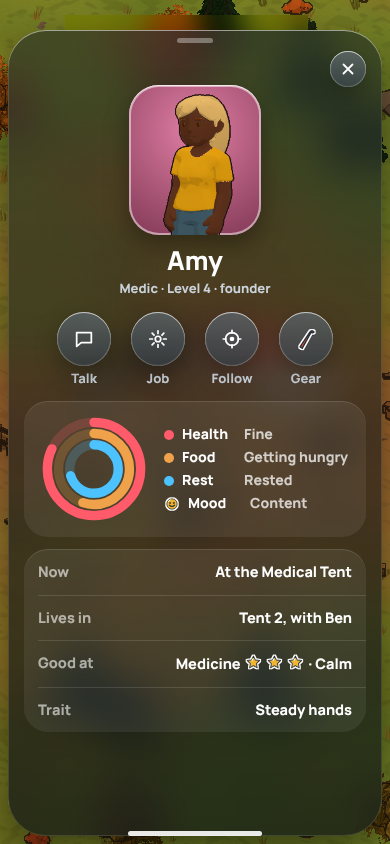
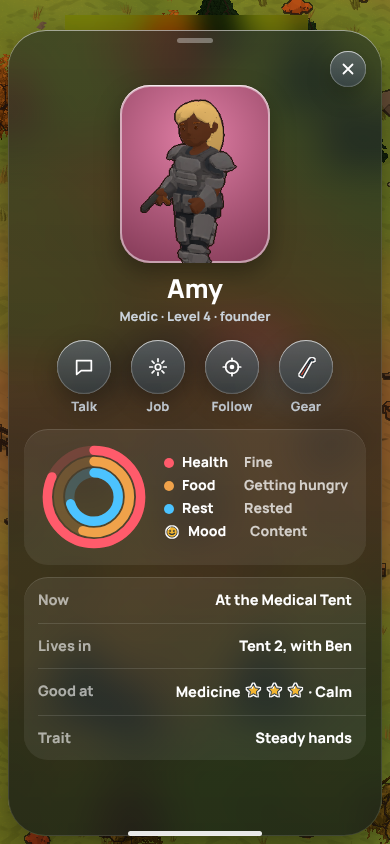
UI: W249 answers (tab bar A, pictures zoomed out, no shake); new picture sheet
Claude-Session: https://claude.ai/code/session_017WFo2g4zbX7WQERKjB1fXN

diff --git a/tools/qa/phone_b2_mock.js b/tools/qa/phone_b2_mock.js
@@ -15,8 +15,10 @@ const { MOCK: VALLEY } = require('./valley_map_mock');
     const base = ZH.S.sv, by = {}; base.forEach((s) => { by[s.name] = s; });
     const extra = [['Rosa', 'Builder', 21, 'f'], ['Theo', 'Fighter', 22, 'm'], ['Ada', 'Mechanic', 23, 'f']];
     for (const [n, job, id, sex] of extra) { const c = { ...JSON.parse(JSON.stringify(base[0])), id, name: n, job }; delete c.look; ZHChars.look(c).sex = sex; by[n] = c; }   /* three more people for the list: their own looks, not copies */
-    by.Marcus = { ...by.Marcus, eq: { ...by.Marcus.eq, weapon: 'bat' } }; by.Theo.eq = { weapon: 'machete', armor: null, head: null, acc: null }; by.Rosa.eq = { weapon: null, armor: null, head: 'hardhat', acc: null };
-    const o = {}; for (const n of Object.keys(by)) o[n] = { bust: ZH3D.portrait(by[n]), half: ZH3D.snap(by[n], { key: 'half', W: 192, H: 240, half: .4, dy: .78 }), fem: ZH3D.isFem(by[n]) };
+    const gear = { Marcus: ['bat', 'kevlar', null], Amy: ['pistol', 'riot', null], Lena: ['bow', null, null], Ben: ['axe', null, 'hardhat'], Rosa: ['crowbar', null, 'hardhat'], Theo: ['machete', 'military', null], Ada: ['shotgun', 'kevlar', null] };
+    for (const n of Object.keys(by)) { const [weapon, armor, head] = gear[n]; by[n] = { ...by[n], eq: { weapon, armor, head, acc: null } }; }
+    /* owner, 23 Nov 10:26: "It should zoom out just be a bit more so you can see the weapon and armor": round spots from the hips up, the card from the knees up */
+    const o = {}; for (const n of Object.keys(by)) o[n] = { bust: ZH3D.snap(by[n], { key: 'hipsup', W: 224, H: 224, half: .43, dy: .77 }), half: ZH3D.snap(by[n], { key: 'kneesup', W: 208, H: 256, half: .54, dy: .67 }), fem: ZH3D.isFem(by[n]) };
     return o; });
   console.log('faces', Object.entries(faces).map(([n, f]) => n + (f.fem ? ' f' : ' m') + (f.bust ? '' : ' NO BUST') + (f.half ? '' : ' NO HALF')).join(', '));
   const pics = await p.evaluate(async () => { for (let i = 0; i < 8; i++) { const u = ZH.invPic('crowbar', 160); if (u) return { crowbar: u, weapon: [], armor: [] }; await new Promise((r) => setTimeout(r, 200)); } return { crowbar: '', weapon: [], armor: [] }; });
@@ -24,8 +26,8 @@ const { MOCK: VALLEY } = require('./valley_map_mock');
   const { mapHtml, mapCss } = await p.evaluate(() => ({ mapHtml: document.querySelector('.vmMap').innerHTML, mapCss: document.getElementById('vmStyle').textContent }));
   await p.evaluate(() => { document.getElementById('closeInfo') && document.getElementById('closeInfo').click(); });
   const shot = async (file, name, opt) => { await p.evaluate(SCREEN, { name, mapHtml, mapCss, pics, opt }); await p.waitForTimeout(350); await p.screenshot({ path: path.join(out, file) }); console.log('shot', file); };
-  for (const t of ['sticker', 'tint', 'badge']) await shot(`phoneB2_tabs_${t}.png`, 'town', { tabs: t, faces });
-  for (const n of ['people', 'card', 'trip', 'item']) await shot(`phoneB2_${n}.png`, n, { tabs: 'tint', faces });
-  await shot('phoneB2_townrings.png', 'townrings', { tabs: 'tint', faces });
+  for (const t of ['sticker', 'tint', 'badge']) await shot(`phoneB2_tabs_${t}.png`, 'town', { tabs: t, faces });   /* owner, 10:26: "use A" (sticker) */
+  for (const n of ['people', 'card', 'trip', 'item']) await shot(`phoneB2_${n}.png`, n, { tabs: 'sticker', faces });
+  await shot('phoneB2_townrings.png', 'townrings', { tabs: 'sticker', faces });
   await b.close();
 })();

diff --git a/tools/qa/phone_b_mock.js b/tools/qa/phone_b_mock.js
@@ -170,8 +170,8 @@ const SCREEN = function ({ name, mapHtml, mapCss, pics, opt }) {
   .pb .nm { flex: 1; min-width: 0; } .pb .nm b { display: block; font-size: 16px; } .pb .nm small { display: block; color: rgba(255,255,255,.6); font-size: 13px; white-space: nowrap; overflow: hidden; text-overflow: ellipsis; }
   .pb .hp { width: 38px; height: 6px; border-radius: 3px; background: rgba(255,255,255,.14); flex: none; } .pb .hp i { display: block; height: 6px; border-radius: 3px; } .pb .ch { display: flex; opacity: .35; }
   .pb .prow.swiped { transform: translateX(-128px); } .pb .swact { position: absolute; right: -128px; top: 0; bottom: 0; display: flex; } .pb .swact span { width: 64px; display: flex; flex-direction: column; align-items: center; justify-content: center; gap: 2px; font-size: 11px; font-weight: 800; }
-  .pb .av.pic { background: radial-gradient(circle at 50% 35%, color-mix(in srgb, var(--c) 85%, #fff), color-mix(in srgb, var(--c) 70%, #000)); overflow: hidden; box-shadow: inset 0 0 0 1.5px rgba(255,255,255,.55), 0 2px 6px rgba(0,0,0,.3); } .pb .av.pic img { width: 128%; height: 128%; margin-top: 16%; object-fit: cover; }
-  .pb .half { width: 132px; height: 150px; border-radius: 30px; display: flex; align-items: flex-end; justify-content: center; overflow: hidden; background: radial-gradient(circle at 50% 30%, color-mix(in srgb, var(--c) 80%, #fff), color-mix(in srgb, var(--c) 60%, #000)); box-shadow: inset 0 0 0 2px rgba(255,255,255,.5), inset 0 1px 0 rgba(255,255,255,.7), 0 10px 24px rgba(0,0,0,.35); } .pb .half img { height: 100%; }
+  .pb .av.pic { background: radial-gradient(circle at 50% 35%, color-mix(in srgb, var(--c) 85%, #fff), color-mix(in srgb, var(--c) 70%, #000)); overflow: hidden; box-shadow: inset 0 0 0 1.5px rgba(255,255,255,.55), 0 2px 6px rgba(0,0,0,.3); } .pb .av.pic img { width: 100%; height: 100%; object-fit: cover; }
+  .pb .half { width: 150px; height: 178px; border-radius: 30px; display: flex; align-items: flex-end; justify-content: center; overflow: hidden; background: radial-gradient(circle at 50% 30%, color-mix(in srgb, var(--c) 80%, #fff), color-mix(in srgb, var(--c) 60%, #000)); box-shadow: inset 0 0 0 2px rgba(255,255,255,.5), inset 0 1px 0 rgba(255,255,255,.7), 0 10px 24px rgba(0,0,0,.35); } .pb .half img { height: 100%; }
   .pb .tbadge { width: 34px; height: 34px; border-radius: 50%; display: grid; place-items: center; color: #fff; box-shadow: inset 0 1px 0 rgba(255,255,255,.6), inset 0 -2px 3px rgba(0,0,0,.18), 0 2px 5px rgba(0,0,0,.3); }
   .pb .rl.wide b { width: 46px; } .pb .rl.wide p { margin: 8px 0; }
   /* call */

diff --git a/docs/project/05-NOW.md b/docs/project/05-NOW.md
@@ -107,7 +107,7 @@ UI chat:
 - W217. Play 3D.279 (live, version 300): (1) the star beside Renown; (2) the bag on the resource bar shows one number, and a tap opens the supplies list with names and caps and an "Open inventory" button; a dot on the bag when something is low (try a gunner with few rounds). Right? Is the dot's rule right (low ammo for the gunners, no medicine with someone hurt, generators short of fuel)? (That publish also put the Strongholds chat's 3D.277 and 3D.278 live: they were pushed, not yet published.)
 - ~~W245. The valley map, mockups.~~ Five pictures sent 23 Nov (look A paper road map, look B dark glass, two pin cards, day 2). Owner, 23 Nov: **"A is good"**; **"Yes on hide places"** (places nobody has scouted stay hidden until a lead, the radio or a story step reveals them); **no count of the zombies left** in a place ("I don't think we should add how many zombie remain"); **factions get a favour bar**, "with the center as neutral and the bar grow depending on your action", and **as few numbers as possible**; **a background like Google Maps**. Revised mockup: W247.
 - ~~W247. The valley map, revised mockup~~ (look C, from W245's answers). Four pictures sent 23 Nov (`runs/ui_samples/valley_map_C_street_*.png`, `tools/qa/valley_map_mock.js`; nothing built): **a street-map background** like Google Maps (pale land, green parks and forests, blue river and lakes, grey town blocks with streets and building outlines, white roads, Route 9 yellow with its shield, soft hill shading, quiet grey area names, the zone past the cordon hatched red, a compass); **a favour bar under every faction's pin and on its card** (a tick in the middle is neutral; it fills right in blue when they like the Haven, left in coral when they don't; the card says in words where it stands, "Wary of you", and what moves it: trading and helping right, raids left); **no counts**: a sealed place says "Partly cleared" and the risk is said in words ("Bring your best fighters"), leads say "Lead" with no hours, the squad on the road has no timer; the numbers left are level locks ("Level 16"), the herd's "2 days" and the counts on the bottom buttons; **day 2** greys out what is not scouted. Right? If yes, it is built in steps, one per build: (1) the map screen in place of the trip list, with the places, their states and the cards; (2) hiding unscouted places; (3) leads, calls, herds and squads drawn on it; (4) the favour bar (it reads the factions' standing the game already keeps). *(Owner, 23 Nov, 08:35: "i change my mine about the faction favour bar. It didn't look as good as i think. What do you recommend?" The bar is dropped. Two ways sent the same morning (`runs/ui_samples/valley_map_mood_*.png`): **1, a face** on the pin's corner (happy, wary, angry; none for neutral) and on the card a row of five faces, Hostile, Wary, Neutral, Friendly, Allies, with theirs lit; **2, a word** under the pin in the mood's colour (Friends, Neutral, Wary, Rivals) and on the card the word with what changes it. Claude's pick: the word on the map (the faces are too small to read at a glance on a phone) and the row of faces on the card (it shows where they could go). Owner, 08:43: "i like both but the we need to change the icon, please come up with a few sample": so the word on the map and the row of moods on the card, with new icons. Sheet `runs/ui_samples/mood_icon_samples.png` (`tools/qa/mood_icons_mock.html`): **A faces** redrawn bigger in the sticker style, each in the mood's colour; **B hearts** (broken, cracked, empty, full, two together); **C their gate** (spiked shut, barred, shut, opening, wide open with a welcome banner); **D hand signs** (the phone's own emoji: fist, stop, shrug, wave, handshake). Claude's pick: C, the gate (it says what the mood means for you, fits the walled towns, and hearts already mean health). Owner, 08:46: **"A is good but not the allies face. i dont lke the hear eye"**: set A, faces, with a new Allies face. Four sent (`runs/ui_samples/mood_icon_allies_samples.png`): 1 big grin with teeth, 2 wink, 3 warm smile with rosy cheeks, 4 two faces together (blue and teal). Claude's pick: 4 (an ally is the two towns side by side, and it differs most from Friendly). Owner, 08:49: **"W247 use 4"**. **The valley map is settled**: look C (street map), unscouted places hidden, no counts of the dead, few numbers, a faction's mood as a coloured word under its pin and as five faces on its card (Hostile, Wary, Neutral, Friendly, Allies; Allies is two faces together). Built in four steps (above); held for W249 so the screen is built once, in the look chosen there.)*
-- W249. **An iPhone-like look for the whole UI** (owner, 23 Nov, 08:49: "Can we come up with some sample to make the UI like an iphone. it might be interesting. Give me some sample mock up"). Six pictures sent, drawn over the real game scene, each as the town screen and the People menu (`runs/ui_samples/ios_*.png`, `tools/qa/ios_ui_mock.js`; nothing built): **A classic iOS**, light frosted bars, a full-width tab bar with line icons and labels, blue for the selected tab and Build, a sheet with a grabber, a large "People" title, a search field, a segmented control and grouped white lists; **B Liquid Glass** (today's iPhone look), clear glass capsules with bright edges, a floating tab bar with a separate round lime Build button, a floating glass sheet; **C widgets**, a Dynamic Island at the top for the most urgent thing (a herd coming, a squad's timer), Stock and Mission widgets, radio messages as notification banners, a dock of app-style icons, Settings-style lists. No Apple fonts or SF Symbols (their licences forbid it): the game's Manrope type, line icons drawn for the game, the game's sticker icons. Claude's pick: B (closest to today's Glass, the newest iPhone look, keeps lime for go and reads well at night); C covers a third of the town; A's light bars glare at night and need iOS blue instead of lime. Waiting: A, B, C, a mix, or keep today's look. *(Owner, 23 Nov, 09:08: "if i want to go with B, how would we implement that for all the function and interface? Maybe SOS will be like an incoming call from the ally? Warning is like amber alert? ... Show me what fun things can we do with this?" Fifteen screens in look B sent (`runs/ui_samples/phoneB_*.png`, sheets `phoneB_sheet_1..3.png`, `tools/qa/phone_b_mock.js`; nothing built): town, an ally's SOS as an incoming call, a herd warning as an emergency alert, the needs list as a notification centre, Moth FM as Now Playing, the valley map with a Maps-style sheet, a trip with travel modes, People as a contacts list with swipe actions, a survivor's contact card with activity rings, inventory as a photo grid, an item with a Give to row, Build as folders, faction messages as a text thread, the daily report as Screen Time, Settings. The plan, twelve fun ideas and about 18 builds behind a "Look: Glass / Phone" setting are in `18-PHONE-LOOK.md`. Waiting: go with B behind the setting? Which fun ideas? Changes? Owner, 23 Nov, 10:08: **"For the whole game."** (look B is decided); of the fun ideas listed in the chat, **"I like 1 to 6"** (missed calls and voicemail, factions texting with a history, Moth FM's old broadcasts and tapes as episodes, While you were away, Update ready for a level-up, Memories), **"i dont understand 7"** (the town's rings); 8, the phone shaking on big hits, was not answered; on the pictures, with the tab bar circled: **"i think these circle should be colored"** and **"we should have the option be able to see the character half body shot for each character instead of the letter"**. Sent the same morning (`runs/ui_samples/phoneB2_*.png`, `tools/qa/phone_b2_mock.js`; nothing built): the tab bar three ways, **A** the game's sticker icons, **B** coloured line icons (Explore blue, People pink, Town amber, More violet), **C** coloured round badges with a white sign (Claude's pick: C); the survivors' own pictures in place of letters, the People page's chest-up shot in the round spots (lists, squad, Give to) and a half-body shot on a survivor's card (the game already makes both from each person's 3D model, outfit and gear); and idea 7 drawn on the Town tab: three rings for the whole town, Fed, Beds, Walls, each full when that is fine, with what would close each ring listed under them. Waiting: A, B or C for the tab bar; are the pictures right, and pictures always or a setting to switch back to letters; the town's rings yes or no; the phone shaking yes or no.)*
+- W249. **An iPhone-like look for the whole UI** (owner, 23 Nov, 08:49: "Can we come up with some sample to make the UI like an iphone. it might be interesting. Give me some sample mock up"). Six pictures sent, drawn over the real game scene, each as the town screen and the People menu (`runs/ui_samples/ios_*.png`, `tools/qa/ios_ui_mock.js`; nothing built): **A classic iOS**, light frosted bars, a full-width tab bar with line icons and labels, blue for the selected tab and Build, a sheet with a grabber, a large "People" title, a search field, a segmented control and grouped white lists; **B Liquid Glass** (today's iPhone look), clear glass capsules with bright edges, a floating tab bar with a separate round lime Build button, a floating glass sheet; **C widgets**, a Dynamic Island at the top for the most urgent thing (a herd coming, a squad's timer), Stock and Mission widgets, radio messages as notification banners, a dock of app-style icons, Settings-style lists. No Apple fonts or SF Symbols (their licences forbid it): the game's Manrope type, line icons drawn for the game, the game's sticker icons. Claude's pick: B (closest to today's Glass, the newest iPhone look, keeps lime for go and reads well at night); C covers a third of the town; A's light bars glare at night and need iOS blue instead of lime. Waiting: A, B, C, a mix, or keep today's look. *(Owner, 23 Nov, 09:08: "if i want to go with B, how would we implement that for all the function and interface? Maybe SOS will be like an incoming call from the ally? Warning is like amber alert? ... Show me what fun things can we do with this?" Fifteen screens in look B sent (`runs/ui_samples/phoneB_*.png`, sheets `phoneB_sheet_1..3.png`, `tools/qa/phone_b_mock.js`; nothing built): town, an ally's SOS as an incoming call, a herd warning as an emergency alert, the needs list as a notification centre, Moth FM as Now Playing, the valley map with a Maps-style sheet, a trip with travel modes, People as a contacts list with swipe actions, a survivor's contact card with activity rings, inventory as a photo grid, an item with a Give to row, Build as folders, faction messages as a text thread, the daily report as Screen Time, Settings. The plan, twelve fun ideas and about 18 builds behind a "Look: Glass / Phone" setting are in `18-PHONE-LOOK.md`. Waiting: go with B behind the setting? Which fun ideas? Changes? Owner, 23 Nov, 10:08: **"For the whole game."** (look B is decided); of the fun ideas listed in the chat, **"I like 1 to 6"** (missed calls and voicemail, factions texting with a history, Moth FM's old broadcasts and tapes as episodes, While you were away, Update ready for a level-up, Memories), **"i dont understand 7"** (the town's rings); 8, the phone shaking on big hits, was not answered; on the pictures, with the tab bar circled: **"i think these circle should be colored"** and **"we should have the option be able to see the character half body shot for each character instead of the letter"**. Sent the same morning (`runs/ui_samples/phoneB2_*.png`, `tools/qa/phone_b2_mock.js`; nothing built): the tab bar three ways, **A** the game's sticker icons, **B** coloured line icons (Explore blue, People pink, Town amber, More violet), **C** coloured round badges with a white sign (Claude's pick: C); the survivors' own pictures in place of letters, the People page's chest-up shot in the round spots (lists, squad, Give to) and a half-body shot on a survivor's card (the game already makes both from each person's 3D model, outfit and gear); and idea 7 drawn on the Town tab: three rings for the whole town, Fed, Beds, Walls, each full when that is fine, with what would close each ring listed under them. Waiting: A, B or C for the tab bar; are the pictures right, and pictures always or a setting to switch back to letters; the town's rings yes or no; the phone shaking yes or no. Owner, 23 Nov, 10:26: **"W249 use A"** (the tab bar uses the game's sticker icons); the pictures: **"It should zoom out just be a bit more so you can see the weapon and armor. Yes correct."** (pictures always, no letters); **"what is the town's rings?"** (explained again in plain words); **"no need for shake"**. Sent: `phoneB2_sheet_v2.png`, the round spots from the hips up and the card from the knees up, each person holding their weapon and wearing their armour. Waiting: is that zoom right; the town's rings yes or no; then building starts with step 0 and 1 of `18-PHONE-LOOK.md`.)*
 - ~~W209. An icon next to Renown.~~ Sheet `renown_icon_samples.png` (21 Nov: A medal, B star, C trophy, D crown). Owner, 22 Nov: "Do star for renown". **Built in 3D.275** (live, version 300): a star sits left of the word in the Renown chip; check `tools/qa/renown_icon_check.js`.
 - ~~W210. The resource bar.~~ The "9·1·0" was the stash chip (cloth · medicine · fuel, no labels). Sheet `resource_bar_samples.png` (22 Nov: A one row, B two rows, C the bag with a total and a list). Owner, 22 Nov: "do C for resource". **Built in 3D.279** (live, version 300): the bag shows one number (cloth + medicine + fuel) and a small orange dot when something is low (a gunner with fewer than 8 rounds each; no medicine while someone is under 60% health; generators with less than 3 fuel each); ammo is off the bar. A tap on the bag opens a short list under it: Cloth, Medicine, Fuel, Ammo, each with its count, cap and a bar, low ones in orange, and "Open inventory" (before, the bag opened the Inventory straight away). A tap elsewhere or on the bag again closes it; it also closes when a menu or card opens. Check `tools/qa/supplies_check.js`.
 

diff --git a/docs/project/02-DECISIONS.md b/docs/project/02-DECISIONS.md
@@ -118,7 +118,7 @@ Full story, cutscene list and storyboards: `09-STORY.md`.
 - 22 Nov (UI chat, W210): **The resource bar keeps food, water, wood, stone and scrap, plus the bag.** The bag shows one total (cloth + medicine + fuel) with a dot when something is low; ammo moves off the bar. A tap on the bag opens the supplies list (each with its name, count, cap and a bar; low ones orange) with "Open inventory"; the Inventory is one tap further than before. Built in 3D.279.
 - 23 Nov (UI chat, W245): **The valley map** (replacing the trip list, W237): the light look of mockup A with **a background like Google Maps**; **places nobody has scouted stay hidden** until a lead, the radio or a story step reveals them; **no count of the dead left** in a place; ~~each faction shows a favour bar: neutral in the middle, growing right or left with what the player does~~ (owner, 23 Nov, 08:35: "It didn't look as good as i think"; a word or a face instead, W247); **as few numbers as possible**. 
 - 23 Nov (UI chat, W247): **A faction's mood** on the valley map is a coloured word under its pin (Friends, Neutral, Wary, Rivals) and, on its card, a row of five faces, Hostile, Wary, Neutral, Friendly, Allies, theirs lit (redrawn sticker faces; **Allies is two faces together**, not heart eyes). Look C (a street map like Google Maps) is the map's look. Not built.
-- 23 Nov (UI chat, W249): **The whole UI takes the phone look, look B** (clear glass capsules over the town, dark glass sheets for menus; owner: "For the whole game"): an ally's call for help is an incoming call, big warnings are emergency alerts, Needs you is a notification list, the radio is Moth FM, factions text you, People is a contact list. Built behind a "Look: Glass / Phone" setting, one change per build (`18-PHONE-LOOK.md`). Fun ideas approved: missed calls and voicemail, factions texting with a history, Moth FM's old broadcasts and tapes as episodes, While you were away, Update ready for a level-up, Memories. The tab bar's icons are coloured, and survivors are shown by their own picture (chest-up in lists, half body on their card), not a letter. No Apple names, fonts, icons or artwork.
+- 23 Nov (UI chat, W249): **The whole UI takes the phone look, look B** (clear glass capsules over the town, dark glass sheets for menus; owner: "For the whole game"): an ally's call for help is an incoming call, big warnings are emergency alerts, Needs you is a notification list, the radio is Moth FM, factions text you, People is a contact list. Built behind a "Look: Glass / Phone" setting, one change per build (`18-PHONE-LOOK.md`). Fun ideas approved: missed calls and voicemail, factions texting with a history, Moth FM's old broadcasts and tapes as episodes, While you were away, Update ready for a level-up, Memories. The tab bar uses the game's coloured sticker icons (owner: "use A"), and survivors are always shown by their own picture, zoomed out enough to see the weapon and armour, never a letter. The phone does not shake ("no need for shake"). No Apple names, fonts, icons or artwork.
 - 19 Nov (UI chat): An **Inventory** menu (owner's picks): it holds everything (gear, supplies, ammo and explosives, tools and medicine) in tabs; it opens by tapping the resource bar and replaces today's Stash screen; you can look at an item and give it to a survivor, who is shown how much better or worse it is (no scrapping); items are an icon grid with a count and a rarity-coloured edge. (Not built yet.)
 - 19 Nov (UI chat, W128): Inventory, second look: the item boxes are smaller (five to a row) and the icons are more detailed: each item is a picture of its own 3D model, weapons laid across the box. Tapping an item shows a big picture of it that can be turned round, as in Resident Evil, with its stats and "Give to" under it. (Mockup sent; waiting on W131.)
 - 19 Nov (UI chat, W126): A radio message stays on screen until it is tapped away: a ✕ closes it, a tap on the card opens the full words. Built in 3D.224.

diff --git a/docs/project/18-PHONE-LOOK.md b/docs/project/18-PHONE-LOOK.md
@@ -88,4 +88,6 @@ Sent the same morning (`runs/ui_samples/phoneB2_*.png`, `tools/qa/phone_b2_mock.
 - **The tab bar, three ways** (`phoneB2_tabs_sheet.png`): A the game's sticker icons; B coloured line icons (Explore blue, People pink, Town amber, More violet); C coloured round badges with a white sign. Claude's pick: C (reads best over a bright town; the lime Build button stays the only lime thing).
 - **The survivors' own pictures in place of letters** (`phoneB2_sheet.png`): the People page's chest-up shot in every round spot (lists, the squad, Give to), on the person's colour; a half-body shot on the survivor's card. The game already makes both from each person's 3D model, outfit and gear (`ZH3D.portrait`, `ZH3D.snap`), so nothing new has to be drawn.
 
-Still open: A, B or C for the tab bar; pictures always, or a setting to switch back to letters; the town's rings yes or no; the phone shaking yes or no.
+Owner, 23 Nov, 10:26: **the tab bar is A**, the game's sticker icons ("use A"); **pictures always**, zoomed out "a bit more so you can see the weapon and armor" (sent: `phoneB2_sheet_v2.png`, hips up in the round spots, knees up on the card); **no shaking** ("no need for shake"); the town's rings still not understood ("what is the town's rings?"), explained again.
+
+Still open: is the zoom right; the town's rings yes or no.
